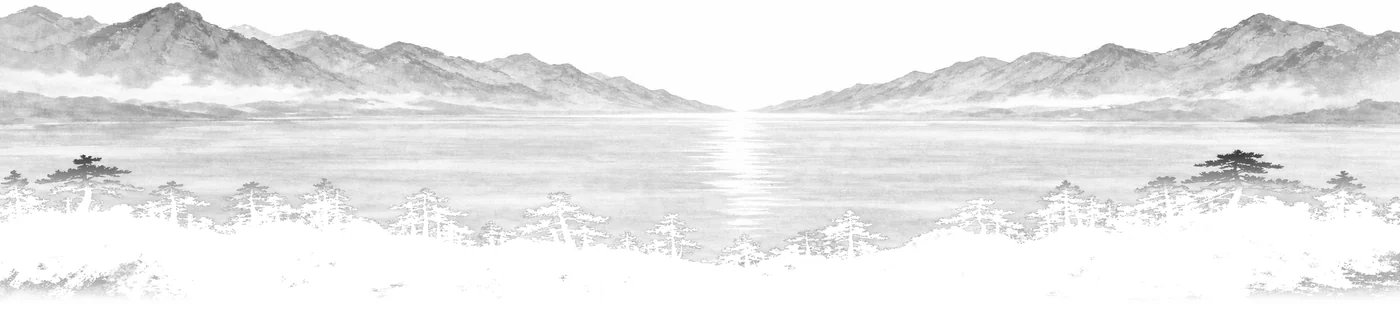
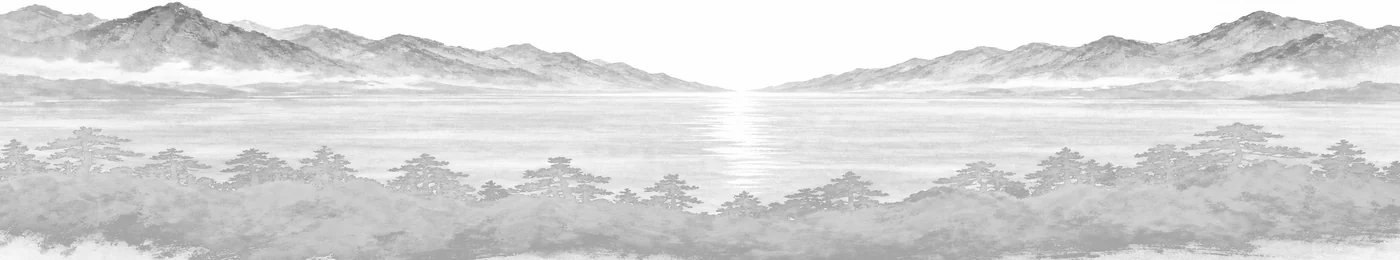
A sun cannot be nearer than the mountains behind it
The sun was rising out of the pine ridge, which put it in front of the range
standing behind it — the one thing a sun in a landscape can never be. Taking it
behind the mountains only trades one wrong picture for another, so it goes
where a sun actually belongs: the horizon.

The painting already had the place for it. Measured down the centre of the
valley, the ink is flat zero above raw row 875 and only begins at the water —
that is the horizon of the scene, and the range opens a gap there wider than
the disc. The layers are split on the WATERLINE now instead of partway down the
pines, so the sun sits behind the lake at the horizon with its foot on the
water, and the reflection column the painting already runs down the middle of
the lake becomes its own. It never overlaps a mountain at any point, so the
question of which is in front never arises on screen.

That freed the ridge. It no longer has to hide anything, so the black slab that
was smothering the foot of the page can simply print lighter: the alpha curve
pulls the mid-tones up and lands the darkest pines around a #46 grey rather
than near-black. The plate also goes to a 5.4:1 panorama, which drops the
waterline low enough for a sun to have somewhere to rise into and reads as a
far range rather than a wall. Treeline mean luminance 166 against 23 before.

Two consequences had to be handled. The sentence sat exactly where the sun now
rests, and no padding written in vh could clear it at both 735 and 911 tall,
[…]

diff --git a/main.js b/main.js
@@ -194,14 +194,17 @@
     if (!sun || !plate) return;
     var skin = sun.querySelector(".sun-ink");
     var fill = sun.querySelector(".sun-fill");
+    var copy = [].slice.call(document.querySelectorAll(".hero-head, .hero-foot"));
     var de = document.documentElement;
 
-    /* Where the front ridge is actually SOLID enough to hide something, as a
-       fraction of the plate's height from its bottom. Not the split row: the
-       handover is a long ramp, so the pine tops are mist the sentence can be
-       read through, and the layer only reaches 0.88 alpha at 81% down. This is
-       that line, measured off the layer's own alpha profile. */
-    var RIDGE = 0.20;
+    /* THE WATERLINE, as a fraction of the plate's height from its bottom — the
+       row the two layers were split on, so it is exact. Measured off the
+       painting: down the centre of the valley the ink is flat zero above raw
+       row 875 and only starts at the water, which is the horizon of the scene.
+       The sun belongs there. It used to sit on the pine ridge instead, which
+       put it nearer than the range standing behind it — the one thing a sun can
+       never be. */
+    var WATER = 0.744;
     var geo = null;
 
     function measure() {
@@ -210,31 +213,30 @@
       var s = Math.abs(gsap.getProperty(sun, "scaleX") || 1);
       var d = sr.width / s;                       /* the sun's own diameter */
       if (!pr.height || !d) return null;
-      var ridgeY = pr.bottom - pr.height * RIDGE; /* screen y of the ridge line */
-
-      /* THE SKY IT HAS TO FIT IN. Everything else on this screen is fixed — the
-         mist band at the top, the sentence below it — and the only genuinely
-         empty stretch is between them. Rather than pick a landing height and
-         then discover the sun collides with the type at some window size, the
-         gap is measured first and the sun is sized to it. It ends up as large
-         as the sheet can hold and never lands on a word. */
-      var head = document.querySelector(".hero-head");
+      var waterY = pr.bottom - pr.height * WATER;  /* screen y of the horizon */
       var kasumi = document.querySelector(".kasumi");
-      var headTop = head ? head.getBoundingClientRect().top : pr.top;
       var mistBottom = kasumi ? kasumi.getBoundingClientRect().bottom : 0;
-      /* the mist is pale and the sun reads beautifully behind it, so it is
-         allowed to sit up into the band — only the TYPE is a hard edge */
-      var gapTop = mistBottom - 46, gapBot = headTop - 10;
-      var gap = gapBot - gapTop;
-      if (gap > 60 && gap < d) {
-        d = Math.max(120, gap * 0.94);
-        sun.style.width = d.toFixed(1) + "px";
-      }
-      var topY = (gapTop + gapBot) / 2;
 
-      /* AT REST roughly a third of it stands clear of the pines. Buried deeper
-         it stopped reading as a sun and became a red mark among the trees. */
-      var restY = ridgeY + d * 0.16;
+      /* AT REST the disc sits on the horizon with its foot just touching the
+         water, which is exactly what a sun that has cleared the horizon looks
+         like — and the reflection column the painting already runs down the
+         middle of the lake becomes its own. */
+      var restY = waterY - d * 0.46;
+
+      /* IT LANDS high in the open sky. The sentence is no longer a constraint
+         on this: it fades out as the sun climbs (see the ride below), so the
+         sun is free to take the middle of the sheet instead of being squeezed
+         into whatever the type left over — which is what shrank it to 98px. */
+      var topY = mistBottom + d * 0.42;
+
+      /* only shrink if the sheet genuinely cannot hold it */
+      var room = restY - topY;
+      if (room < d * 0.55 && room > 0) {
+        d = Math.max(110, d * (room / (d * 0.55)));
+        sun.style.width = d.toFixed(1) + "px";
+        restY = waterY - d * 0.46;
+        topY = mistBottom + d * 0.42;
+      }
       return { d: d, rest: restY, climb: Math.max(0, restY - topY) };
     }
 
@@ -247,6 +249,22 @@
       sun.style.bottom = (groundBottom - geo.rest - geo.d / 2).toFixed(1) + "px";
       sun.style.marginLeft = (-geo.d / 2).toFixed(1) + "px";
       sun.style.visibility = "visible";
+
+      /* THE SENTENCE SITS ON THE SUN, not on a number. Its resting place is
+         whatever clears the disc at the horizon — and where the horizon falls
+         depends on the plate, which depends on the window's WIDTH, so no
+         padding written in vh could ever hold at both 735 and 911 tall. It was
+         landing across the sun at rest at exactly the sizes the clamp did not
+         happen to suit. This drives it off the geometry instead.
+         No circularity: the sun's rest reads the plate and the mist band only,
+         never the type. */
+      var hero = document.querySelector(".hero");
+      if (hero) {
+        var hb = hero.getBoundingClientRect();
+        var need = hb.bottom - (geo.rest - geo.d * 0.5 - 14);
+        hero.style.paddingBottom =
+          Math.max(140, Math.min(hb.height * 0.66, need)).toFixed(0) + "px";
+      }
     }
 
     function neededScale() {
@@ -308,6 +326,20 @@
           burn = burn * burn * (3 - 2 * burn);   /* smoothstep */
           fill.style.opacity = Math.min(1, burn * 2.4).toFixed(3);
           fill.style.transform = "scale(" + (0.1 + 0.9 * burn).toFixed(4) + ")";
+        }
+        /* The sentence steps aside. It has been read by the time anyone has
+           scrolled this far, and it is the only thing standing between the
+           horizon and the open sky the sun has to climb into — holding it there
+           is what forced the sun down to 98px in the first place. Written
+           straight to style rather than tweened: GSAP capturing a start value
+           while the WAAPI opening is still mid-flight is what blanked this hero
+           once before. */
+        if (copy.length) {
+          var fade = Math.max(0, Math.min(1, (r - 0.12) / 0.42));
+          fade = fade * fade * (3 - 2 * fade);
+          for (var i = 0; i < copy.length; i++) {
+            copy[i].style.opacity = (1 - fade).toFixed(3);
+          }
         }
         de.classList.toggle("sun-up", r > 0.98);
       }

diff --git a/index-tr.html b/index-tr.html
@@ -36,9 +36,9 @@
   <link rel="manifest" href="/site.webmanifest">
   <link rel="preload" as="font" type="font/woff2" href="assets/fonts/shippori-800.woff2" crossorigin>
   <link rel="preload" as="font" type="font/woff2" href="assets/fonts/manrope-var.woff2" crossorigin>
-  <link rel="preload" as="image" imagesrcset="assets/horizon-900.webp?s=6 900w, assets/horizon-1400.webp?s=6 1400w, assets/horizon.webp?s=6 1920w" imagesizes="110vw" fetchpriority="high">
-  <link rel="preload" as="image" href="assets/sun-ink.webp?s=6" fetchpriority="high">
-  <link rel="stylesheet" href="style.css?v=127">
+  <link rel="preload" as="image" imagesrcset="assets/horizon-900.webp?s=7 900w, assets/horizon-1400.webp?s=7 1400w, assets/horizon.webp?s=7 1920w" imagesizes="110vw" fetchpriority="high">
+  <link rel="preload" as="image" href="assets/sun-ink.webp?s=7" fetchpriority="high">
+  <link rel="stylesheet" href="style.css?v=128">
   <script type="application/ld+json">
   {"@context": "https://schema.org", "@type": "Organization", "name": "217 Products", "url": "https://217products.com/", "logo": "https://217products.com/assets/icon-512.png", "image": "https://217products.com/assets/zen.webp?w=1", "description": "Ankara’dan dünyaya açılan bağımsız bir ürün şirketiyiz. Gördüğümüz boşluklara hızlı, sade ve uzun ömürlü ürünler inşa ediyoruz.", "email": "destek217product@gmail.com", "foundingDate": "2026", "address": {"@type": "PostalAddress", "addressLocality": "Ankara", "addressCountry": "TR"}}
   </script>
@@ -73,9 +73,9 @@
     <!-- 1 · HERO — one sentence on paper, the plate at its foot -->
     <section class="hero">
       <div class="hero-ground" id="scene" aria-hidden="true">
-        <img decoding="async" class="hz hz-back" data-depth="0.22" src="assets/horizon.webp?s=6" srcset="assets/horizon-900.webp?s=6 900w, assets/horizon-1400.webp?s=6 1400w, assets/horizon.webp?s=6 1920w" sizes="110vw" alt="" width="1920" height="436" fetchpriority="high">
-        <span class="sun" id="sun"><img class="sun-ink" src="assets/sun-ink.webp?s=6" alt="" width="320" height="320" decoding="sync" fetchpriority="high"><i class="sun-fill"></i></span>
-        <img decoding="async" class="hz hz-front" data-depth="0.22" src="assets/horizon-front.webp?s=6" srcset="assets/horizon-front-900.webp?s=6 900w, assets/horizon-front-1400.webp?s=6 1400w, assets/horizon-front.webp?s=6 1920w" sizes="110vw" alt="" width="1920" height="436">
+        <img decoding="async" class="hz hz-back" data-depth="0.22" src="assets/horizon.webp?s=7" srcset="assets/horizon-900.webp?s=7 900w, assets/horizon-1400.webp?s=7 1400w, assets/horizon.webp?s=7 1920w" sizes="110vw" alt="" width="1920" height="356" fetchpriority="high">
+        <span class="sun" id="sun"><img class="sun-ink" src="assets/sun-ink.webp?s=7" alt="" width="320" height="320" decoding="sync" fetchpriority="high"><i class="sun-fill"></i></span>
+        <img decoding="async" class="hz hz-front" data-depth="0.22" src="assets/horizon-front.webp?s=7" srcset="assets/horizon-front-900.webp?s=7 900w, assets/horizon-front-1400.webp?s=7 1400w, assets/horizon-front.webp?s=7 1920w" sizes="110vw" alt="" width="1920" height="356">
       </div>
       <img class="kasumi" aria-hidden="true" decoding="async" src="assets/kasumi.webp?w=1" srcset="assets/kasumi-900.webp?w=1 900w, assets/kasumi-1400.webp?w=1 1400w, assets/kasumi.webp?w=1 1920w" sizes="110vw" alt="" width="1920" height="576">
       <div class="specks" aria-hidden="true"><i></i><i></i><i></i><i></i><i></i><i></i><i></i><i></i><i></i><i></i><i></i><i></i><i></i><i></i><i></i><i></i></div>
@@ -299,6 +299,6 @@
   <script src="vendor/gsap.min.js?v=3.15.0"></script>
   <script src="vendor/ScrollTrigger.min.js?v=3.15.0"></script>
   <script src="vendor/lenis.min.js?v=1.3.25"></script>
-  <script src="main.js?v=82"></script>
+  <script src="main.js?v=84"></script>
 </body>
 </html>

diff --git a/index.html b/index.html
@@ -36,9 +36,9 @@
   <link rel="manifest" href="/site.webmanifest">
   <link rel="preload" as="font" type="font/woff2" href="assets/fonts/shippori-800.woff2" crossorigin>
   <link rel="preload" as="font" type="font/woff2" href="assets/fonts/manrope-var.woff2" crossorigin>
-  <link rel="preload" as="image" imagesrcset="assets/horizon-900.webp?s=6 900w, assets/horizon-1400.webp?s=6 1400w, assets/horizon.webp?s=6 1920w" imagesizes="110vw" fetchpriority="high">
-  <link rel="preload" as="image" href="assets/sun-ink.webp?s=6" fetchpriority="high">
-  <link rel="stylesheet" href="style.css?v=127">
+  <link rel="preload" as="image" imagesrcset="assets/horizon-900.webp?s=7 900w, assets/horizon-1400.webp?s=7 1400w, assets/horizon.webp?s=7 1920w" imagesizes="110vw" fetchpriority="high">
+  <link rel="preload" as="image" href="assets/sun-ink.webp?s=7" fetchpriority="high">
+  <link rel="stylesheet" href="style.css?v=128">
   <script type="application/ld+json">
   {"@context": "https://schema.org", "@type": "Organization", "name": "217 Products", "url": "https://217products.com/", "logo": "https://217products.com/assets/icon-512.png", "image": "https://217products.com/assets/zen.webp?w=1", "description": "An independent product company reaching from Ankara to the world. Where we see a gap, we build products that are fast, simple, and made to last.", "email": "destek217product@gmail.com", "foundingDate": "2026", "address": {"@type": "PostalAddress", "addressLocality": "Ankara", "addressCountry": "TR"}}
   </script>
@@ -73,9 +73,9 @@
     <!-- 1 · HERO (3D parallax) -->
     <section class="hero">
       <div class="hero-ground" id="scene" aria-hidden="true">
-        <img decoding="async" class="hz hz-back" data-depth="0.22" src="assets/horizon.webp?s=6" srcset="assets/horizon-900.webp?s=6 900w, assets/horizon-1400.webp?s=6 1400w, assets/horizon.webp?s=6 1920w" sizes="110vw" alt="" width="1920" height="436" fetchpriority="high">
-        <span class="sun" id="sun"><img class="sun-ink" src="assets/sun-ink.webp?s=6" alt="" width="320" height="320" decoding="sync" fetchpriority="high"><i class="sun-fill"></i></span>
-        <img decoding="async" class="hz hz-front" data-depth="0.22" src="assets/horizon-front.webp?s=6" srcset="assets/horizon-front-900.webp?s=6 900w, assets/horizon-front-1400.webp?s=6 1400w, assets/horizon-front.webp?s=6 1920w" sizes="110vw" alt="" width="1920" height="436">
+        <img decoding="async" class="hz hz-back" data-depth="0.22" src="assets/horizon.webp?s=7" srcset="assets/horizon-900.webp?s=7 900w, assets/horizon-1400.webp?s=7 1400w, assets/horizon.webp?s=7 1920w" sizes="110vw" alt="" width="1920" height="356" fetchpriority="high">
+        <span class="sun" id="sun"><img class="sun-ink" src="assets/sun-ink.webp?s=7" alt="" width="320" height="320" decoding="sync" fetchpriority="high"><i class="sun-fill"></i></span>
+        <img decoding="async" class="hz hz-front" data-depth="0.22" src="assets/horizon-front.webp?s=7" srcset="assets/horizon-front-900.webp?s=7 900w, assets/horizon-front-1400.webp?s=7 1400w, assets/horizon-front.webp?s=7 1920w" sizes="110vw" alt="" width="1920" height="356">
       </div>
       <img class="kasumi" aria-hidden="true" decoding="async" src="assets/kasumi.webp?w=1" srcset="assets/kasumi-900.webp?w=1 900w, assets/kasumi-1400.webp?w=1 1400w, assets/kasumi.webp?w=1 1920w" sizes="110vw" alt="" width="1920" height="576">
       <div class="specks" aria-hidden="true"><i></i><i></i><i></i><i></i><i></i><i></i><i></i><i></i><i></i><i></i><i></i><i></i><i></i><i></i><i></i><i></i></div>
@@ -299,6 +299,6 @@
   <script src="vendor/gsap.min.js?v=3.15.0"></script>
   <script src="vendor/ScrollTrigger.min.js?v=3.15.0"></script>
   <script src="vendor/lenis.min.js?v=1.3.25"></script>
-  <script src="main.js?v=82"></script>
+  <script src="main.js?v=84"></script>
 </body>
 </html>
